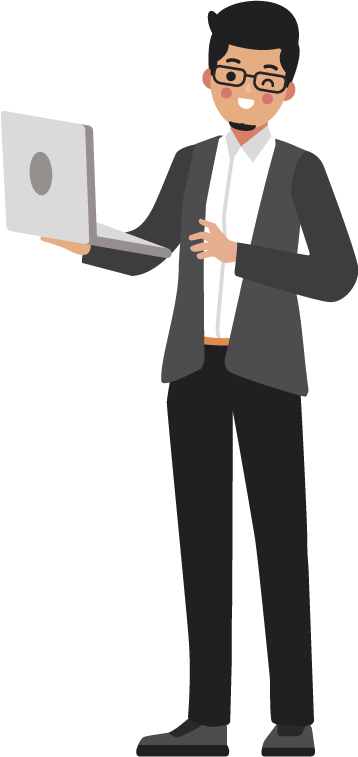
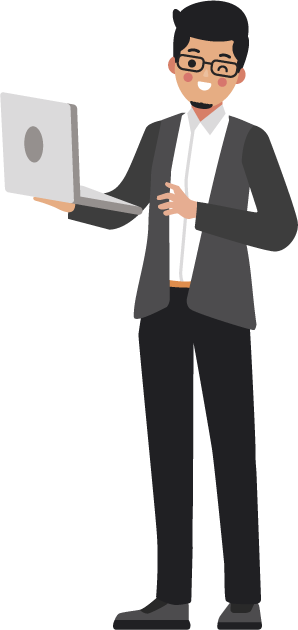
smith

diff --git a/index.html b/index.html
@@ -58,7 +58,7 @@
                 <div class="row">
                     <div class="col-lg-6">
                         <div class="img animate__animated animate__fadeInUp animate__slower 1s">
-                            <img alt="bnm2.png" src="images/bnm2.png">
+                            <img alt="bnm3.png" src="images/bnm3.png">
 
 
                         </div>
